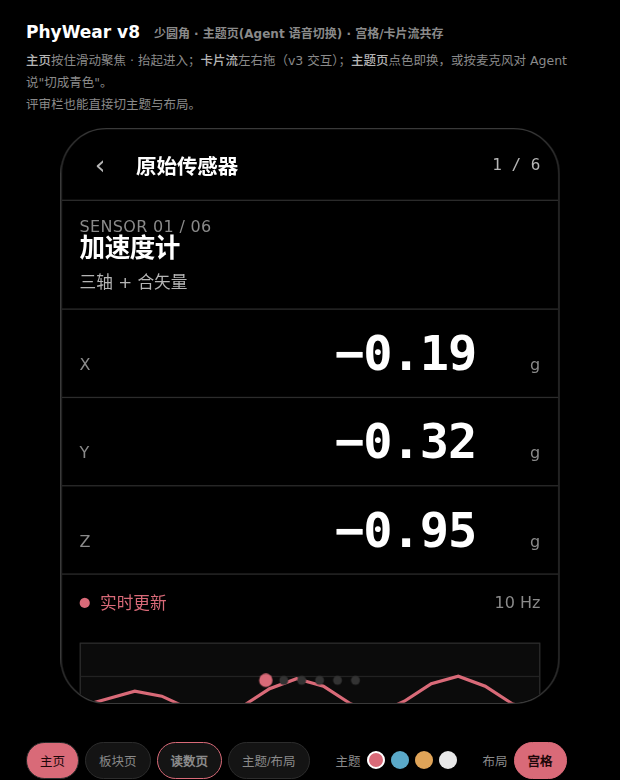
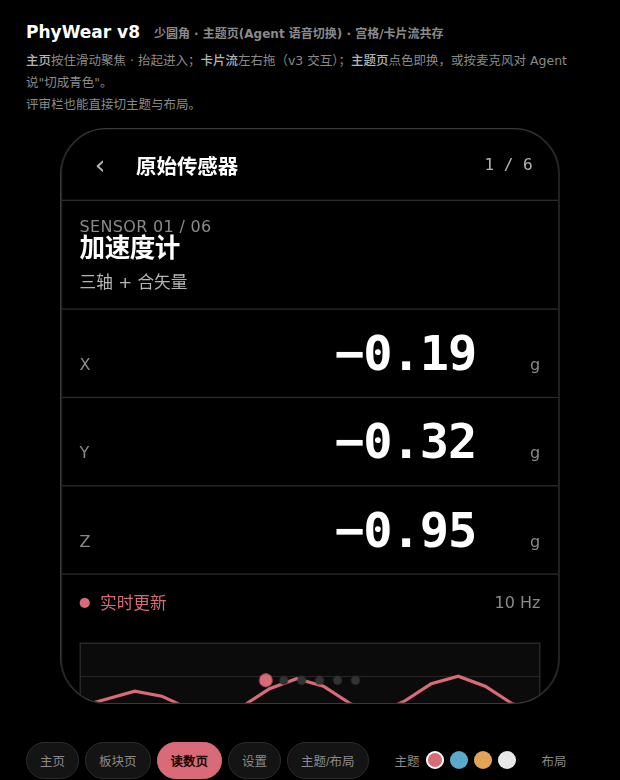
design(v8.2): 顶栏时间右内边距 14→20px（左移一点点）+ tabular-nums；记上板对应改动 -18→-24

diff --git a/docs/design/phywear-v8-prototype.html b/docs/design/phywear-v8-prototype.html
@@ -52,15 +52,15 @@
   .wash{position:absolute;inset:0;background:var(--accent);opacity:0;pointer-events:none;z-index:40;
         transition:opacity .45s ease-out}
 
-  .bar{height:56px;display:flex;align-items:center;padding:0 14px;position:relative;z-index:6;
+  .bar{height:56px;display:flex;align-items:center;padding:0 20px 0 14px;   /* 右侧 20px：时间/⋯/版本号左移一点点 */position:relative;z-index:6;
        border-bottom:1px solid var(--line);transition:border-color .6s}
   .bar .id{font-size:19px;font-weight:700}
-  .bar .sub{position:absolute;right:14px;font-size:12.5px;color:var(--fg3)}
+  .bar .sub{position:absolute;right:20px;font-size:12.5px;color:var(--fg3)}
   .back{width:44px;height:44px;display:flex;align-items:center;justify-content:center;border-radius:var(--r-pill);
         color:var(--fg2);font-size:21px;margin-left:-6px}
   .back:active{background:var(--card2)}
   .bar .ttl{font-size:16px;font-weight:600;margin-left:6px}
-  .bar .t{position:absolute;right:14px;font-size:12.5px;color:var(--fg2)}
+  .bar .t{position:absolute;right:20px;font-size:12.5px;color:var(--fg2);font-variant-numeric:tabular-nums}
   .mic{width:38px;height:38px;border-radius:var(--r-pill);border:1px solid var(--line);background:var(--card);
        color:var(--accent);display:flex;align-items:center;justify-content:center;font-size:15px}
   .mic.rec{background:var(--accent);color:var(--ink);border-color:var(--accent)}

diff --git a/CLAUDE.md b/CLAUDE.md
@@ -54,7 +54,7 @@
 | **v6：完全否决 v5.1 后重做 + 四色版本（2026-09-17）** | 用户否决 v5.1 两条：① 满屏绿色小波形=无意义抽象装饰；② 不要绿色曲线配色，**整版否决**。v6 改：**删掉所有装饰性波形**（模块格改为显示该模块**最近一次测量值**：1.02 g / 9.79 m/s² / −42 dB / 21.4° / 00:12.4…），**绿色整体移除**，给出 4 套非绿强调色（琥珀 `#E0A458` 默认 / 青 `#5AA9C9` / 玫瑰 `#D96A78` / 单色 `#E8E8E8`，均满足 §4.2 单一强调色且饱和度<80%）。按用户要求**每色各出一个锁定版本**：`docs/design/phywear-v6-{amber,cyan,rose,mono}.html`（每份锁一色、无切换器）+ 八张静图 `v6-<色>-0{1,2}-*.png`；同一份还支持 `?acc=` 与 `?still=1#cat`。保留 v5 已认可部分（OLED 纯黑/大字号/圆润卡/每屏一焦点）与三条非循环动效（按压回弹+涟漪、入场错峰、D1 数值脉冲）。**仍未上板** —— 等用户挑定颜色后先做主屏 + 板块页真机验证。 |
 | **v7：去"条状"+ 玫瑰/青 双版本（2026-09-17）** | 用户定调"玫瑰和蓝色不错"，并指出**"条子状的最难看"**。v7 三处结构性修改：① 主页 8 个**宽短条 → 4 列 × 2 行方形应用格**（83×88、圆角 22，字形 + 短标签，聚焦格用强调色描边+着色）；② **分页小条 → 圆点**（激活点 scale 1.5，不再有"拉伸的条"）；③ 板块页裸条行 → **带 32px 图标块的列表项**。按用户偏好出两个锁定版本：`docs/design/phywear-v7-rose.html`（玫瑰 `#D96A78`）/ `phywear-v7-cyan.html`（青 `#5AA9C9`），图 `v7-{rose,cyan}-0{1,2}-*.png`；基础文件 `phywear-v7-prototype.html`（支持 `?acc=` / `?still=1#cat`）。绿色仍完全移除；模块格显示真实测量值；动效仍只保留非循环三条。**仍未上板**。 |
 | **v7.1：子页样式规范（2026-09-17）** | 用户指出"只改主页，不改主页里面的子页"。查明：v7 只铺了主页/板块页/原始传感器读数页 3 屏，App 其余 30+ 子页未改。故先把子页收敛为 **4 种页型**并各出一屏规范（玫瑰色）：① 实验读数页（大数字+单位列+曲线+步进器+芯片+主次按钮，例：单摆 g）② 参数操作页（大计数+阈值步进+曲线+主/次按钮，例：磁性标尺）③ 向导标定页（步骤圆点+大字指令+进度条+双按钮，例：六面法标定）④ 设置列表页（图标块行+右侧当前值）。文件 `docs/design/phywear-v71-subpages-spec.html`，图 `v71-00-subpages-spec.png`。其余页面按页型套用，不再逐页重设计。**仍未上板**。 |
-| **v8：少圆角 + 主题页(Agent 语音) + 双交互共存（2026-09-17）** | 用户三条：①"怎么这么多圆角矩形"（并引 SKILL：高级感+性能要少圆角）② 新增**主题页**可切换，且切换作为 **AI Agent 的主动功能**：**渐变**切换 + **语音**切换 ③ **v3 卡片流交互与当前宫格共存**。v8 做法：① 依据 taste-skill §4.4（cards 只在表达层级时用，否则 `border-t`/`divide-y` 分组）+「VISUAL_DENSITY>7 禁泛用卡片容器」+ 本队 `stacks/lvgl.csv`「EPIC 只对 radius=0 直通」，定**三级圆角尺度**：内容容器 **0**（主页/板块/读数/主题页改用 1px 细线分组）、格子 **10**、交互 **999**；每屏圆角矩形从 6~10 个降到 3~4 个；② 新增**主题与布局页**：4 主题（玫瑰/青/琥珀/单色）+ 主页布局切换 + Agent 语音入口；切换走 CSS 变量 + 全局 `transition .6s` + 强调色"洗色"遮罩（只动 opacity，符合 §6.A）；麦克风按钮模拟"聆听→识别→渐变切换 + 提示条"；③ 主页**双布局共存**：宫格（v7）与**卡片流（v3：横向拖动+中心聚焦+磁吸+共享元素）**，页内与评审栏均可切。文件 `docs/design/phywear-v8-prototype.html`（支持 `?t=rose|cyan|amber|mono`、`?lay=grid|flow`、`?still=1#theme`），图 `v8-0{1,2,3,4}-*.png`。**补**：用户发现「网页里看不到设置入口」——查明 v8 主页顶栏丢了设备原有的「⋯」入口，主题页只能靠评审栏/URL 进。已补 **主页右上 ⋯ → 设置列表页**（第 4 种页型：主题与布局 / 语言 / 屏幕常亮 / 数据导出 / 采样率 / 关于，细线分组 + 图标块），再由「主题与布局」进主题页；并补 `#set` 路由。已知未做：主题页内容超过一屏（真机需滚动容器，或将主题行压到 46px）。**仍未上板**。 |
+| **v8：少圆角 + 主题页(Agent 语音) + 双交互共存（2026-09-17）** | 用户三条：①"怎么这么多圆角矩形"（并引 SKILL：高级感+性能要少圆角）② 新增**主题页**可切换，且切换作为 **AI Agent 的主动功能**：**渐变**切换 + **语音**切换 ③ **v3 卡片流交互与当前宫格共存**。v8 做法：① 依据 taste-skill §4.4（cards 只在表达层级时用，否则 `border-t`/`divide-y` 分组）+「VISUAL_DENSITY>7 禁泛用卡片容器」+ 本队 `stacks/lvgl.csv`「EPIC 只对 radius=0 直通」，定**三级圆角尺度**：内容容器 **0**（主页/板块/读数/主题页改用 1px 细线分组）、格子 **10**、交互 **999**；每屏圆角矩形从 6~10 个降到 3~4 个；② 新增**主题与布局页**：4 主题（玫瑰/青/琥珀/单色）+ 主页布局切换 + Agent 语音入口；切换走 CSS 变量 + 全局 `transition .6s` + 强调色"洗色"遮罩（只动 opacity，符合 §6.A）；麦克风按钮模拟"聆听→识别→渐变切换 + 提示条"；③ 主页**双布局共存**：宫格（v7）与**卡片流（v3：横向拖动+中心聚焦+磁吸+共享元素）**，页内与评审栏均可切。文件 `docs/design/phywear-v8-prototype.html`（支持 `?t=rose|cyan|amber|mono`、`?lay=grid|flow`、`?still=1#theme`），图 `v8-0{1,2,3,4}-*.png`。**补**：用户发现「网页里看不到设置入口」——查明 v8 主页顶栏丢了设备原有的「⋯」入口，主题页只能靠评审栏/URL 进。已补 **主页右上 ⋯ → 设置列表页**（第 4 种页型：主题与布局 / 语言 / 屏幕常亮 / 数据导出 / 采样率 / 关于，细线分组 + 图标块），再由「主题与布局」进主题页；并补 `#set` 路由。**再补**：用户要求启动后显示的**时间（如 1:11）往左挪一点点** —— 原型顶栏右侧内边距 14→20px（时间/⋯/版本号一起左移 6px，加 tabular-nums 防抖动）；上板对应改动：设备 `pw_topbar()` 里计时标签的 `LV_ALIGN_RIGHT_MID, -18` 改为 **-24**。已知未做：主题页内容超过一屏（真机需滚动容器，或将主题行压到 46px）。**仍未上板**。 |
 | 回退点 | `~/桌面/PhyWear-rollback-20260915-0002/`（含改动前固件 `484b64ca…`，本批真机 A/B 用的就是它；`rollback.sh --check`） |
 | 迁移包 | `~/桌面/PhyWear-migrate-20260914.zip` |
 
